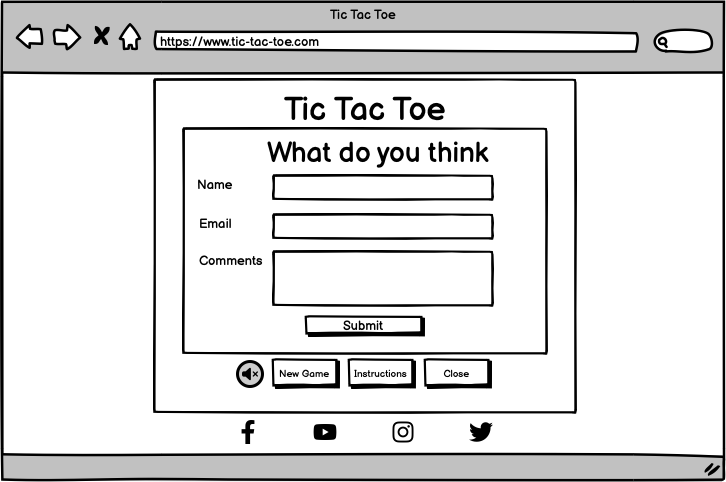
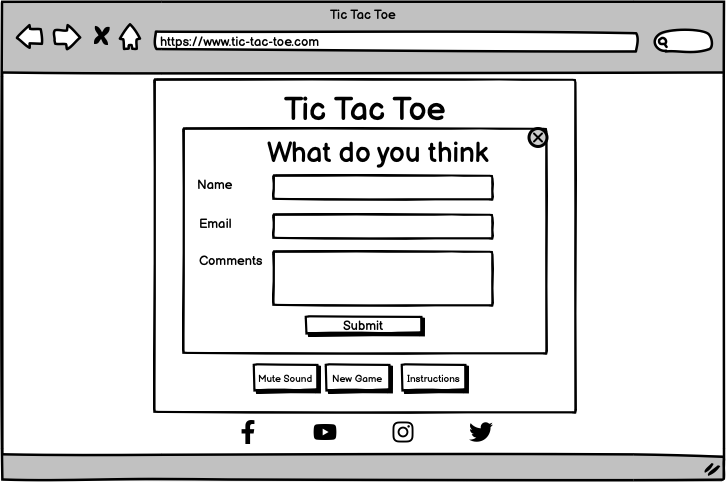
docs: add features section and images to readme file

Changed region(s): [[0.303, 0.7158, 0.697, 0.8402], [0.7273, 0.249, 0.7576, 0.3112]]

diff --git a/assets/css/style.css b/assets/css/style.css
@@ -237,8 +237,8 @@ button:hover {
     border-radius: 50%;
 }
 
-/* Media Query: laptops and larger screens (992px and up) */
-@media screen and (min-width: 992px) {
+/* Media Query: tablets and larger screens (768px and up) */
+@media screen and (min-width: 768px) {
     
     section {
     width: 600px;

diff --git a/README.md b/README.md
@@ -47,6 +47,7 @@ Visit the deployed website [here](https://sarah-bue.github.io/tic-tac-toe/).
 - As a user, I want to be able to play the game on different devices.
 
 ### Color Scheme
+
 ![Color Scheme Image](assets/readme-files/palette.png)
 The body of the website uses an off-white color (#E2E6EA - Anti-Flash White), combined with a medium gray color (#475B63 - Payne's Gray) for the main area.
 
@@ -55,6 +56,7 @@ The board itself uses a brown-gray color (#986C6A - Rose Taupe), with player mar
 Win / Draw announcements are displayed in a brighter, orance color (#FFB140 - Orange (web)).
 
 ### Typography
+
 ![Type Font Image](assets/readme-files/font.png)
 The site uses Gloria Hallelujah, imported from Google Fonts, as its main font.
 
@@ -72,6 +74,65 @@ Instructions | ![Wireframe Instructions Desktop Image](assets/wireframes/wf-inst
 [Back to top ⇧](#tic-tac-toe)
 
 ## Features
+### General
+- The site was built using a mobile-first approach. 
+- Media queries were used to adapt features for larger screens to ensure responsive designs across different screen sizes. 
+
+**Header**
+
+![Header Image](assets/readme-files/header.png)
+- The header contains the name of the website, which is identical to the name of the game.
+
+**Footer**
+
+![Footer Image](assets/readme-files/footer.png)
+- The footer contains links to the website's social media channels.
+
+### Board Area
+**Board**
+
+![Clear Board Image](assets/readme-files/board-clear.png)
+- The board starts out with all cells being empty.
+- When pressing the "New Game" button, the board returns to this state.
+- Instructions and Feedback Popups are hidden by default.
+- If the game is unmuted, a sound will be heard when clicking the cells, and a different sound when clicking the buttons.
+
+**Hover Effect**
+
+![Board Hover Effect Image](assets/readme-files/board-hover.png)
+- When hovering over a cell, a slightly transparent version of the current player's symbol appears to indicate whose turn it is.
+- The symbol changes depending on the current player; varying between X and O.
+
+**Win / Draw Announcement**
+
+![Win Board Image](assets/readme-files/board-win.png)
+- When a Win or a Draw is achieved, an announcement appears below the board.
+- The announcement changes depending on which player won.
+- If the game is unmuted, a victory sound will be played.
+
+### Popups
+**Instructions Popup**
+
+![Instructions Image](assets/readme-files/popup-instructions.png)
+- Clicking on the "Instructions" button opens the "Instructions" popup.
+- It overlaps the board to focus the player's attention on the rules.
+- Images showcase the different ways the game can be won.
+- When the "Instructions" popup is open, the "Instructions" button below the board is hidden.
+- The section can be closed by using the "X" button in the top right corner. This will make the original button reappear below the board.
+
+**Feedback Popup**
+
+![Feedback Image](assets/readme-files/popup-feedback.png)
+- Clicking on the "Feedback" button opens the "Feedback" popup.
+- It overlaps the board to focus the player's attention on the form.
+- The form allows the player to provide feedback about their experience with the game.
+- When the "Feedback" popup is open, the "Feedback" button below the board is hidden.
+- The section can be closed by using the "X" button in the top right corner. This will make the original button reappear below the board.
+
+### 404 Page
+
+![404 Page](assets/readme-files/404-desktop.png)
+- This page is displayed in case of broken or misspelled links, and contains a link back to the main page.
 
 [Back to top ⇧](#tic-tac-toe)
 
